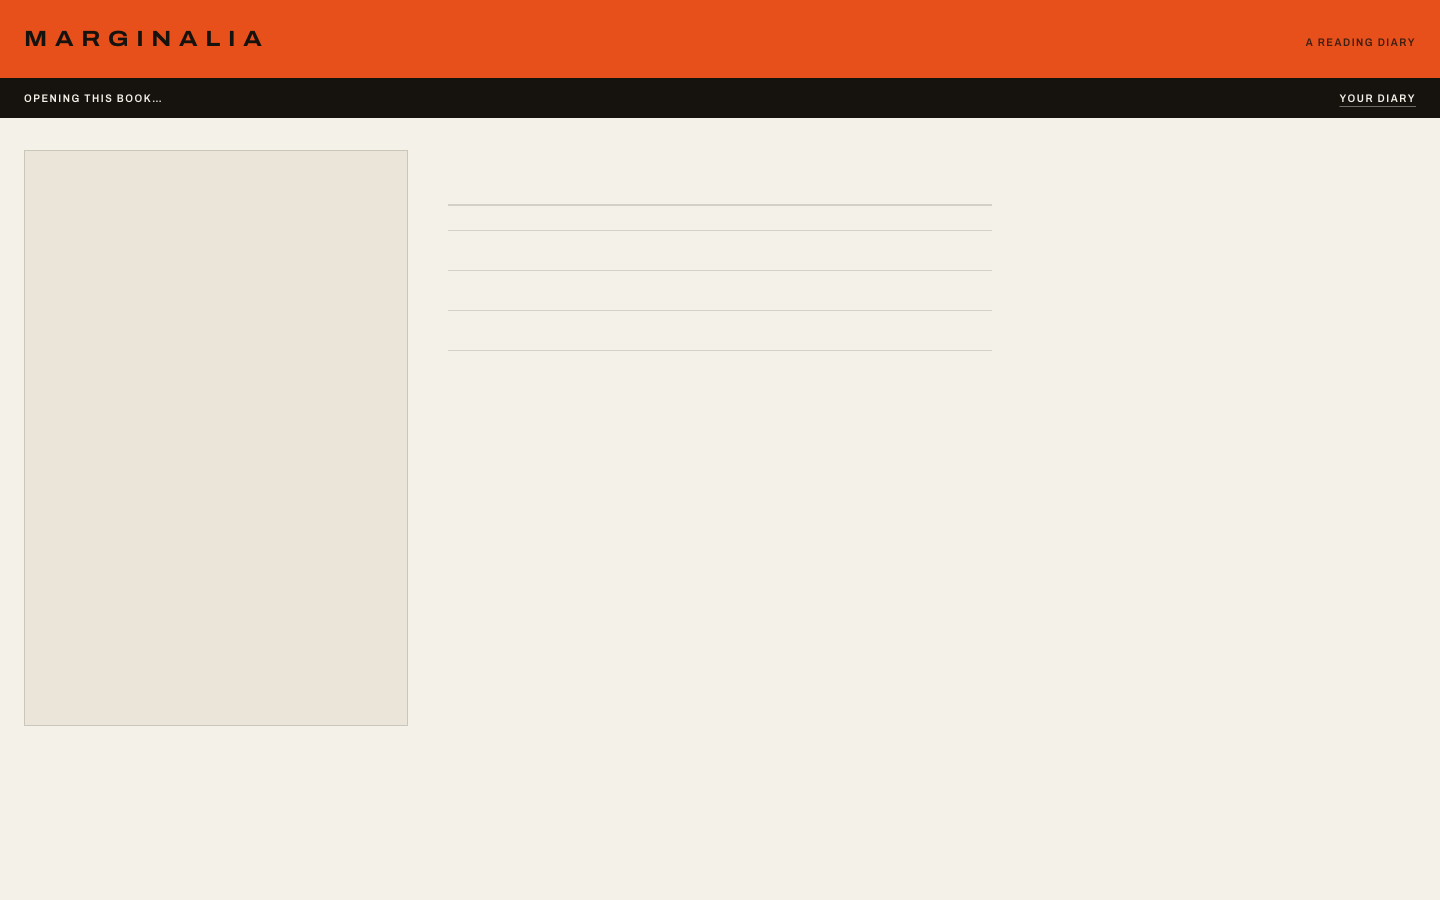
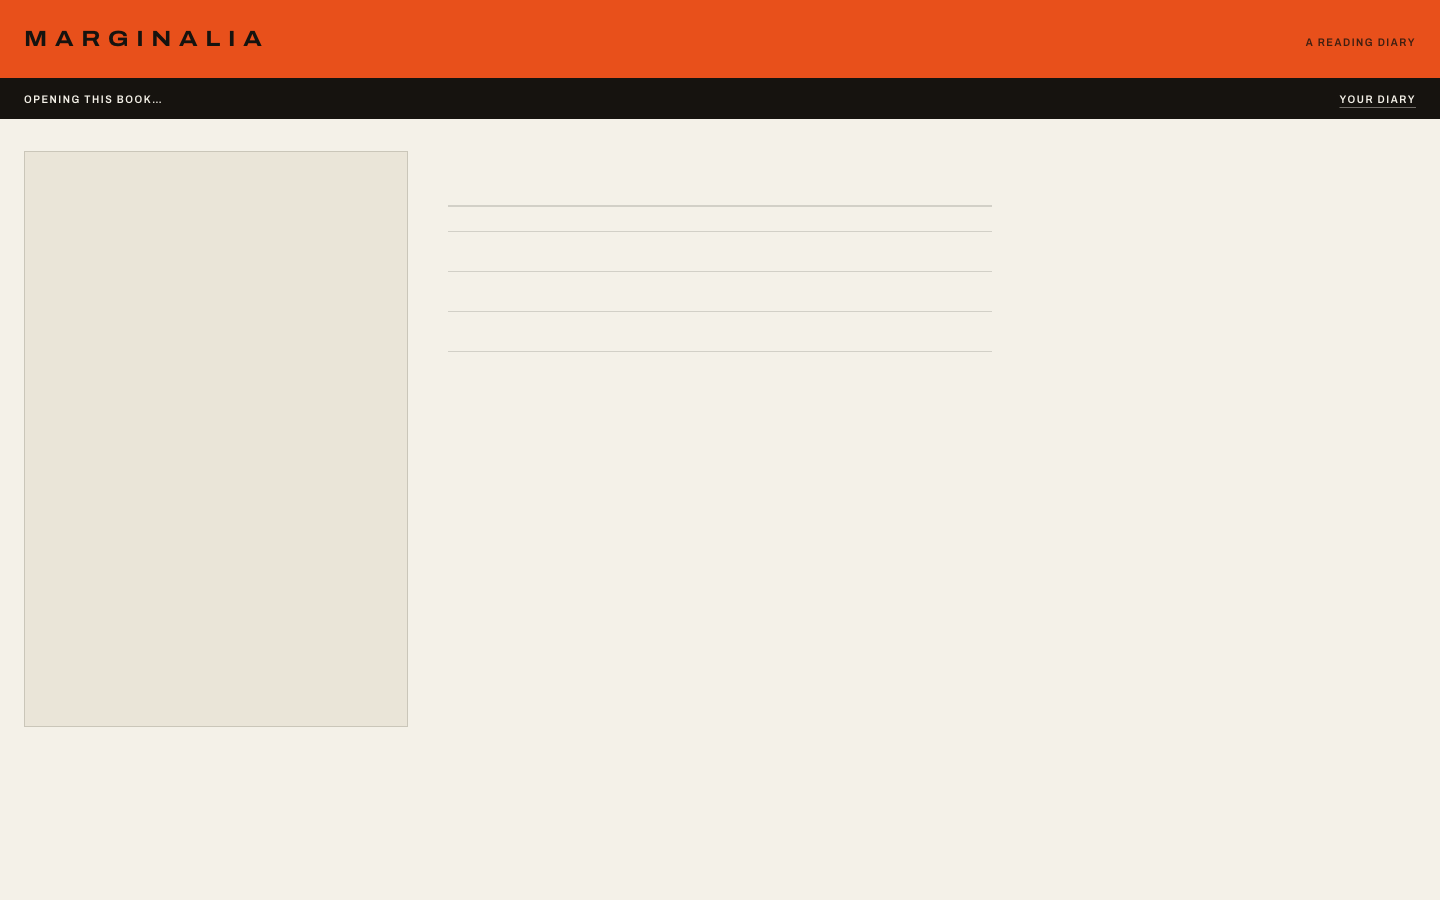
docs(design): record the book page in DESIGN.md and the sidecar (MRG-015)
Written by the Impeccable documenter from the shipped build, as an
extension: no new colours, type steps, radii or motion. Adds the Book
Title Page, Date Slip and Book States components, the page-scale
type-only jacket, the book page layout, and names the Earned Colour Rule
(a band stays ink until the book is on the reader's shelf).

Amends the Edge-to-Edge Rule so a band heading an object on a measure
(the date slip's head, on the 34rem edge) is allowed — flagged in the PR
for approval.

Also gives the state band the author band's 2px top rule so the page
does not shift when "Opening this book…" gives way to the book, and
recaptures the screenshots that changed.

Claude-Session: https://claude.ai/code/session_01KxkQPdjynFnT7U2GkKzCe7

Changed region(s): [[0.0312, 0.0933, 0.0938, 0.1244], [0.9375, 0.0933, 0.9688, 0.1244]]

diff --git a/src/components/BookStates.tsx b/src/components/BookStates.tsx
@@ -12,7 +12,10 @@ export function StateBand({
   diaryHref = "/",
 }: Readonly<{ children: React.ReactNode; diaryHref?: string }>) {
   return (
-    <div className="flex items-center justify-between gap-4 border-t border-ink bg-ink px-4 py-3 text-paper sm:px-6">
+    // The 2px ink top rule draws nothing on an ink ground. It is there to give
+    // this band the author band's exact height, so the page does not shift by
+    // a pixel when "Opening this book…" is replaced by the book.
+    <div className="flex items-center justify-between gap-4 border-t-2 border-ink bg-ink px-4 py-3 text-paper sm:px-6">
       {children}
       <Link
         href={diaryHref}

diff --git a/DESIGN.md b/DESIGN.md
@@ -158,6 +158,30 @@ components:
   button-outline-hover:
     backgroundColor: "{colors.band-fiction}"
     textColor: "{colors.ink}"
+  author-band:
+    backgroundColor: "{colors.ink}"
+    textColor: "{colors.paper}"
+    typography: "{typography.label}"
+    padding: "12px 16px"
+  imprint-row:
+    textColor: "{colors.ink}"
+    typography: "{typography.label}"
+    padding: "10px 0"
+  date-slip-head:
+    backgroundColor: "{colors.ink}"
+    textColor: "{colors.paper}"
+    typography: "{typography.label}"
+    padding: "10px 12px"
+  date-slip-line:
+    backgroundColor: "{colors.paper}"
+    textColor: "{colors.ink}"
+    typography: "{typography.field}"
+    padding: "12px 12px"
+  page-jacket:
+    backgroundColor: "{colors.paper-sunk}"
+    textColor: "{colors.ink}"
+    typography: "{typography.headline}"
+    padding: "24px 20px"
 ---
 
 # Design System: Marginalia
@@ -241,21 +265,32 @@ populated shelf is nearly always derived from the jacket and conditioned before 
 - **Paper** (`{colors.paper}`): the page ground and every cell's ground. Also the
   reversed text colour on every ink band, the focus ring on an ink band, and one of the two candidates the contrast
   helper picks from for band text.
-- **Sunk Paper** (`{colors.paper-sunk}`): the jacket well behind a cover, the
-  no-cover setting, the year rule's ground, the ground of the code cell awaiting the
-  next keystroke, the band that says Open Library is unavailable, and the scrollbar
-  track. It reads as the same sheet pressed
+- **Sunk Paper** (`{colors.paper-sunk}`): the jacket well behind a cover (in a cell,
+  and as a book page's frontispiece), the no-cover setting at both scales, the empty
+  frontispiece drawn while a book opens, the year rule's ground, the ground of the
+  code cell awaiting the next keystroke, the band that says Open Library is
+  unavailable (under search, and in place of a book never opened here), and the
+  scrollbar track. It reads as the same sheet pressed
   slightly, not as a second surface.
 - **Ink** (`{colors.ink}`): all primary text, all structural borders, the focus
-  ring (except on an ink band, where it is paper), the fence around the delete section, and the masthead's record band ground.
-- **Soft Ink** (`{colors.ink-soft}`): dates, counts, the reading span, "Unrated",
-  field labels and hints, a closed code's characters, supporting copy, and the
-  scrollbar thumb. It is the only tonal step below ink; there is no third text grey.
+  ring (except on a band: paper on an ink band, the band's `readableOn()` foreground
+  on a book's colour), the fence around the delete section, and the masthead's record
+  band ground. It is also the ground of the date slip's head, of the band that opens
+  each of a book page's states, and of a book page's author band until the book is on
+  this reader's shelf, and it draws the 2px rule that parts that author band from the
+  wordmark band.
+- **Soft Ink** (`{colors.ink-soft}`): dates, counts, the reading span, a book's
+  subtitle, "Unrated" and "Undated", field and imprint labels and hints, a closed
+  code's characters, supporting copy (a book's description among it), the author at
+  the foot of a type-only jacket, and the scrollbar thumb. It is the only tonal step below ink; there is no third text grey.
 - **Hairline Rule** (`{colors.rule}`): ink at 15% alpha. Every hairline in the shelf
   — cell borders, record-band separator, and the ruled column lines that show a
   partial row's unfilled positions — plus the resting stroke under a field value,
-  the resting border of an empty code cell, and the border of a control that is not
-  yet available.
+  the resting border of an empty code cell, the border of a control that is not
+  yet available, the border of a book page's frontispiece, the lines between imprint
+  rows and between reads on the date slip, the slip's closing blank line (at 2px),
+  the ruled empty frame drawn while a book opens, and a link's underline at rest on
+  paper.
 
 ### Named Rules
 
@@ -263,7 +298,8 @@ populated shelf is nearly always derived from the jacket and conditioned before 
 compares the WCAG contrast of ink and paper against the band and returns the winner.
 This is not a nicety: bands are derived from arbitrary cover art, and paper on the
 fiction orange is 3.32:1 and fails AA. The same helper decides the masthead, the
-entry bands, and the "Add" cell's hover state.
+entry bands, a book page's author band (its foreground, its link underline, and its
+focus ring), and the "Add" cell's hover state.
 
 **The Conditioned Ink Rule.** A colour lifted from a jacket is never used raw.
 `conditionBand()` floors saturation at 0.35 and clamps lightness into 0.28–0.62, so
@@ -273,6 +309,11 @@ deliberate flat ink rather than as whatever the scanner captured.
 **The Stable Colour Rule.** A fallback band is a deterministic hash of the Open
 Library work key, never random and never per-render. A shelf that reshuffles its own
 colours between visits reads as broken, not lively.
+
+**The Earned Colour Rule.** A book wears a band colour only once it is on this
+reader's shelf. Until then its band is ink: a search result's band, and a book page's
+author band while its slip reads "Not on your shelf". On the shelf it takes the
+conditioned jacket colour, or the stable fallback when there is none.
 
 **The Refusal Tone Rule.** Alarm red says one thing — *this was refused, or this is
 about to destroy something* — and it says it as a stroke or as words, never as a
@@ -287,7 +328,7 @@ what it is waiting for.
 
 **The Browser-Surface Rule.** Surfaces we did not draw still belong to the design.
 Selection, caret, scrollbar track and thumb, and the focus ring are all themed to
-paper and ink; none may be left at the OS default. The focus ring is 2px ink at a 2px offset everywhere except on an ink band, where ink vanishes into the ground and the ring is paper; every control or link set on an ink band carries it.
+paper and ink; none may be left at the OS default. The focus ring is 2px ink at a 2px offset everywhere except on a band that ink would vanish into. On an ink band the ring is paper; on a band whose ground is a book's colour (a book page's author band) the ring is that band's `readableOn()` foreground, because a fixed paper ring vanishes on a pale jacket as surely as ink vanishes on ink. Every control or link set on a band carries its band's ring.
 
 ## Typography
 
@@ -306,10 +347,14 @@ of the system, and it is what makes a second typeface unnecessary.
   "MARGINALIA" on the masthead's colour band. This voice belongs to the wordmark
   only.
 - **Display** (600, 2.25rem → 3.5rem at ≥640px, lh 0.95, −0.02em): the reader's name
-  in the masthead's field band, and "Your account" at the head of the account sheet.
-  The largest type on the page. Both steps are recorded tokens.
+  in the masthead's field band, "Your account" at the head of the account sheet, and
+  a book's title on its title page, balanced, breaking an unbroken word rather than
+  overflowing, and capped at the title column's 34rem edge. The largest type on the
+  page. Both steps are recorded tokens.
 - **Headline** (600, 1.75rem → 2.25rem at ≥640px, lh 1, −0.02em): the year on a year
-  rule, and the door's one sentence of proposition. Chronology is the structure the
+  rule, the door's one sentence of proposition, and the title at the head of a
+  page-scale type-only jacket (1.75rem, reaching 2.25rem only at ≥64rem, where the
+  frontispiece column is wide enough not to break a word). Chronology is the structure the
   shelf is ordered by, so it is drawn at a scale that carries across a viewport
   rather than set in the page's smallest type.
 - **Field** (600, 1.375rem, lh snug, −0.01em): the value voice. Every editable value
@@ -317,19 +362,27 @@ of the system, and it is what makes a second typeface unnecessary.
   the handle on the claim form, the confirmation handle in the delete fence, and the
   characters in an invite-code cell (stepping to 1.75rem at ≥640px in the door's
   mask). The masthead's reading span uses the same step at ≥640px, at weight 500 in
-  soft ink, because a span is a value too. Values are larger than their labels here;
+  soft ink, because a span is a value too. A book's subtitle takes that same setting
+  under its title, and a read's date on the date slip is set at this step at 600, in
+  ink, or in soft ink when the line says "Undated". Values are larger than their labels here;
   that inversion is deliberate and is what makes a form read as a filled-in sheet.
 - **Title** (600, 0.8125rem, lh tight, balanced): a book title in an entry's record
   band. Small on purpose — the jacket above it is the identifying object.
 - **Body** (400, 0.9375rem / 0.875rem, lh relaxed, soft ink, capped ~34–38rem):
-  the empty-shelf guidance, the door's explanation, and the delete fence's
-  consequences. Body copy is rare here; this surface is a record, not an article.
+  the empty-shelf guidance, the door's explanation, the delete fence's
+  consequences, a book's description (on the title page's 34rem edge), and the
+  sentence under a book page's unavailable or not-found band (38rem). Body copy is
+  rare here; this surface is a record, not an article. An imprint value (a year, a
+  page count, "Open Library") sits at the body size at weight 500 in ink: a value on
+  a ruled line, still larger than its label.
 - **Label** (600, 0.6875rem, `wdth` 88, 0.14em tracking, caps): the band voice —
   author name, "Add", "Reread", the tally, a year's book count, a field's label, an
-  invite's state, and every button on the account surfaces. Two page-scale headings
+  invite's state, every button on the account surfaces, a book page's author line
+  and state line, the date slip's head and count, and an imprint row's label. Two page-scale headings
   ("Invitations", the commit band's verb) run this voice at `wdth` 118 and 0.2em to
   hold a full-width band. Where band-voice text has to wrap — a state line beside a
-  link in a record band at 390px — it takes 1.4 leading and balanced lines instead of
+  link in a record band at 390px, a two-author line in a book page's author band, the
+  author at the foot of a type-only jacket — it takes 1.4 leading and balanced lines instead of
   its resting line-height of 1.
 - **Meta** (500, 0.6875rem, soft ink, tabular): dates, "Unrated", counts, the
   reading span. Field hints and inline errors sit one step up at 0.8125rem.
@@ -383,6 +436,18 @@ count, and every real cell paints over it — so a partial row shows its empty
 positions the way a printed signature does, at the cost of one background and no
 filler elements.
 
+**A book page is a title page facing its frontispiece.** Beneath the wordmark band
+and the author band sits a two-column grid from 40rem: a jacket column of
+min(24rem, 33%) and a title column taking the rest, 40px apart, inside the page
+padding, 32px under the band and 40px above the foot. The jacket column is sized to
+the jacket, so the title page faces it across one gap rather than across the dead half
+of a third. Every block in the title column (title, subtitle, imprint rows, date
+slip, description) hangs on one 34rem right edge, so the page reads as a single set
+measure and a long title wraps on the same edge as the imprint. The date slip comes
+before the description, so a long blurb never pushes the reads out of the first
+viewport. Below 40rem the columns stack 24px apart, 24px under the band, and the
+frontispiece is centred at 60% of the width.
+
 **Everything runs in the flow of the page, with one named exception.** The commit
 band on the account sheet is `position: sticky; bottom: 0`, and it is the only
 viewport-pinned element in the build. It is scoped to the whole account column
@@ -397,7 +462,10 @@ fallback; a change that only holds on one of them is not finished.
 ### Named Rules
 
 **The Edge-to-Edge Rule.** Bands span the full viewport width. Never inset a band
-inside a container to make it look like a card.
+inside a container to make it look like a card. The one band set to a measure is a
+band that heads an object on that measure: the date slip's head runs to the title
+column's 34rem edge and no further. It is never boxed; what it heads closes on ruled
+lines, not on a border.
 
 **The Ruled Signature Rule.** An incomplete row shows ruled empty slots. Never
 centre a short row, never stretch cells to fill it, and never insert placeholder
@@ -437,8 +505,11 @@ consumes it** — treat 2px as a limit, not as a default, and prefer 0.
 
 Form language is rectangles and rules only: 1px hairlines in `{colors.rule}` between
 and inside cells, 1px solid ink around the "Add" cell, above and below a year rule,
-and around the delete fence, a 2px ruled line under an editable value, and a fixed
-2:3 jacket frame that never crops. The single non-rectangular shape in the system is
+and around the delete fence; a 2px solid ink rule between the wordmark band and a
+book's author band, which a fallback band can match in colour and over a hairline
+would merge with; a 2px ruled line under an editable value, and the same 2px line
+left blank to close the date slip; and a fixed 2:3 jacket frame that never crops,
+hairline-bordered where it stands alone as a frontispiece. The single non-rectangular shape in the system is
 the drawn rating mark. Icons and separators are authored SVG paths at 1.5px stroke
 with square line caps — including the dash between the two halves of an invite code,
 which is drawn rather than typed so a screen reader never spells it as part of the
@@ -453,10 +524,13 @@ weight, tone, or presence of a printed mark.
 **The Printed State Rule.** Control and field state is carried by a mark on the
 page, not by chrome:
 - **At rest** — a hairline (`{colors.rule}`): an empty code cell, an unedited field's
-  ruled line, a control that is not yet available.
+  ruled line, a control that is not yet available, the date slip's closing blank
+  line, a link's underline (hairline tone on paper; the band's foreground at 40% on
+  a band).
 - **Filled or focused** — the same stroke at solid ink: a code cell holding a
   character, a field being typed in (`focus-within`), a search result under the pointer
-  or keyboard focus.
+  or keyboard focus, a link's underline under the pointer (the band's full foreground
+  on a band).
 - **Awaiting the next keystroke** — sunk paper as the cell's ground, so the position
   the next character lands in is visible without a blinking cursor.
 - **Refused** — the stroke redrawn in alarm red, on the field that failed and on
@@ -545,13 +619,81 @@ device repeated, and the year rule immediately below is already a ruled strip.
   / "Nothing logged yet") left, and the link into the account sheet right. A separate
   nav bar would be a fourth band this page does not have. This band also ships on its
   own under the search field: the search's state ("5 books", "Searching Open
-  Library…") left, and "Your diary" right.
+  Library…") left, and "Your diary" right. A book page's states open with the same
+  ink band on its own: "Opening this book…", "Book unavailable" or "Book not found"
+  left, "Your diary" right.
 
 ### Year Rule
 
 A full-width ruled band on sunk paper, bordered top and bottom in solid ink: the year
 at headline scale left, the group's book count in soft-ink label type right. It is a
 band, not a hairline, because chronology is the shelf's organising structure.
+
+### Book Title Page (page-scale tri-band)
+
+One book, opened: the tri-band frame at page scale, run beneath the wordmark band.
+Character: a paperback's title page facing its frontispiece, not a store's product
+page.
+
+- **Band one, author:** full width, 12px vertical inside the page padding. The author
+  line in band voice at 1.4 leading with balanced lines ("Author unknown" when there
+  is none; past three names, two and a count) left, "Your diary" right. Its ground
+  follows the Earned Colour Rule, and its foreground, its link underline (40% of the
+  foreground at rest, full under the pointer) and its focus ring all come from
+  `readableOn()`. A 2px solid ink rule parts it from the wordmark band, which a
+  fallback band can match exactly.
+- **Band two, frontispiece and title page:** the jacket in a 2:3 sunk-paper well with
+  a hairline border, facing the title column (see Layout). In that column: the title
+  at display scale, the subtitle at the field step in soft ink, the imprint rows, the
+  date slip, then the description in soft-ink body copy.
+- **Imprint rows:** a list opened by a hairline, one row per known value, each closed
+  by a hairline, 10px vertical. The label sits left in soft-ink band voice and the
+  value right on the same baseline, at body size, weight 500, in ink. A value Open
+  Library did not have omits its row rather than printing a dash. The last row,
+  "Source / Open Library", is always present and links out to the record, underlined
+  in hairline tone and going to ink under the pointer.
+- **Band three, record:** the Date Slip, set in the title column straight under the
+  imprint rather than as a third full-width band.
+- **States:** the page has none of its own; only its two links respond to hover and
+  focus, and only in colour.
+
+### Date Slip
+
+The record band of a book page: this reader's own reads of the book, one ruled line
+each, closed by the line the next read goes on. Character: the slip pasted into a
+library book, saying "your reads", never "due".
+
+- **Head:** an ink band on the 34rem measure, 10px/12px padding. "Your reads" (the
+  section's heading, in band voice) sits left and the count in band voice right: "Not
+  on your shelf", "Read once", "Read twice", then "Read N times".
+- **Lines:** newest first, undated last, each closed by a hairline, 12px padding. The
+  date sits left at the field step (600, ink), or "Undated" at the same step in soft
+  ink. On the right: a soft-ink "Reread" label when relevant, then the drawn Rating
+  in ink, or "Unrated" in soft-ink meta. At 390px the two halves wrap rather than
+  shrinking the date.
+- **Blank line:** a 3.25rem empty line closed by a 2px hairline-tone rule, the Field
+  Row's resting line left unfilled. It is inert and `aria-hidden` until a log sheet
+  exists to deploy from it: never announced as a control that does nothing, never
+  labelled "coming soon". A book not on the shelf shows the head and this one line.
+- **States:** none; nothing on the slip is interactive yet.
+
+### Book States
+
+The book page's other outcomes, each opened under the wordmark band by the masthead's
+ink record band on its own (state left, "Your diary" right, paper underline and
+focus ring). None uses alarm, because nothing in them was refused.
+
+- **Opening:** "Opening this book…" as a live `<output>` in the band, over the page's
+  frame drawn empty and `aria-hidden`: the frontispiece as a hairline-bordered
+  sunk-paper well, the title as a 2px hairline-tone ruled line, and three hairline
+  imprint rows. These are ruled empty positions, as an unfilled shelf position is
+  ruled, never skeleton shapes pretending to be a book, and nothing moves.
+- **Unavailable:** "Book unavailable" in the band, then one sentence of soft-ink body
+  copy on a full-width sunk-paper band closed by a hairline. This is search's
+  unavailable setting, kept apart from not-found so a reader never hunts for a typo
+  that is not there.
+- **Not found:** "Book not found" in the band, one soft-ink sentence on paper, and an
+  Outline Button, "Search for a book", as the way on.
 
 ### Field Row
 
@@ -613,7 +755,8 @@ band, not a toolbar.
 ### Outline Button
 
 The standing control outside the form — "Mint a code", "Sign out", "Delete this
-account". Character: a label with a border drawn around it.
+account", and "Search for a book" on a book page that was not found, where it is a
+link. Character: a label with a border drawn around it.
 
 - **Shape:** square, 1px border, 12px/10px padding, band-voice label, paper ground.
 - **Border:** solid ink when the control is available; hairline while it is not.
@@ -646,6 +789,14 @@ A plain lazy `<img>` at `object-contain` inside the fixed 2:3 well, with a
 `"{title} by {author}"` and is load-bearing rather than decorative, because the
 interface is built around cover art.
 
+**Page scale.** `scale="page"` changes only the coverless setting. At frontispiece
+size the cell's small centred label reads as an empty placeholder, so the well holds
+a type-only jacket instead: the title at the headline step at the head, and the first
+author in soft-ink band voice (1.4 leading, balanced) at the foot, with 24px/20px
+padding (32px/28px at ≥64rem). The jacket is `aria-hidden`, because the page's heading
+already says the title. The cell-scale no-cover setting is unchanged. A page-scale
+cover passes its own `sizes` for the frontispiece column.
+
 ### Motion
 
 **The One Moment Rule.** The entire surface has exactly one authored animation: an
@@ -663,8 +814,11 @@ moves. No other transition on the page changes anything but colour or opacity.
   whatever scale the object needs.
 - **Do** pass every band colour through `conditionBand()` and every band foreground
   through `readableOn()`. Contrast is decided by the helper, never by eye.
+- **Do** give a book its band colour only once it is on this reader's shelf; until
+  then its band is ink.
 - **Do** keep hairlines at `{colors.rule}` (ink at 15%) and reserve solid ink borders
-  for the primary action, the year rule, the standing controls, and the delete fence.
+  for the primary action, the year rule, the standing controls, the delete fence, and
+  the 2px rule between the wordmark band and a book's author band.
 - **Do** draw state as a printed mark — hairline at rest, solid ink filled or
   focused, sunk paper on the position awaiting the next keystroke, an alarm stroke on
   refusal, a rule through an unavailable label, a struck bar across a spent code.
@@ -679,9 +833,11 @@ moves. No other transition on the page changes anything but colour or opacity.
   condensed for band labels (`wdth` 88).
 - **Do** design empty and no-cover states as real settings with real copy — an
   unfilled slot is ruled, a coverless book gets a typographic jacket, an empty invite
-  run says what an invitation does.
+  run says what an invitation does, a book with no reads gets a slip with one ruled
+  blank line.
 - **Do** cap the measure of a ruled value at 34rem and of prose at 38rem, inside a
-  band that still runs edge to edge.
+  band that still runs edge to edge. On a title page, hang every block, the title
+  included, on one 34rem edge.
 - **Do** theme browser surfaces (selection, caret, scrollbar, focus ring) whenever a
   new one appears.
 - **Do** hold both 390px and 1440px as finished layouts; whole-cell repack, never a
